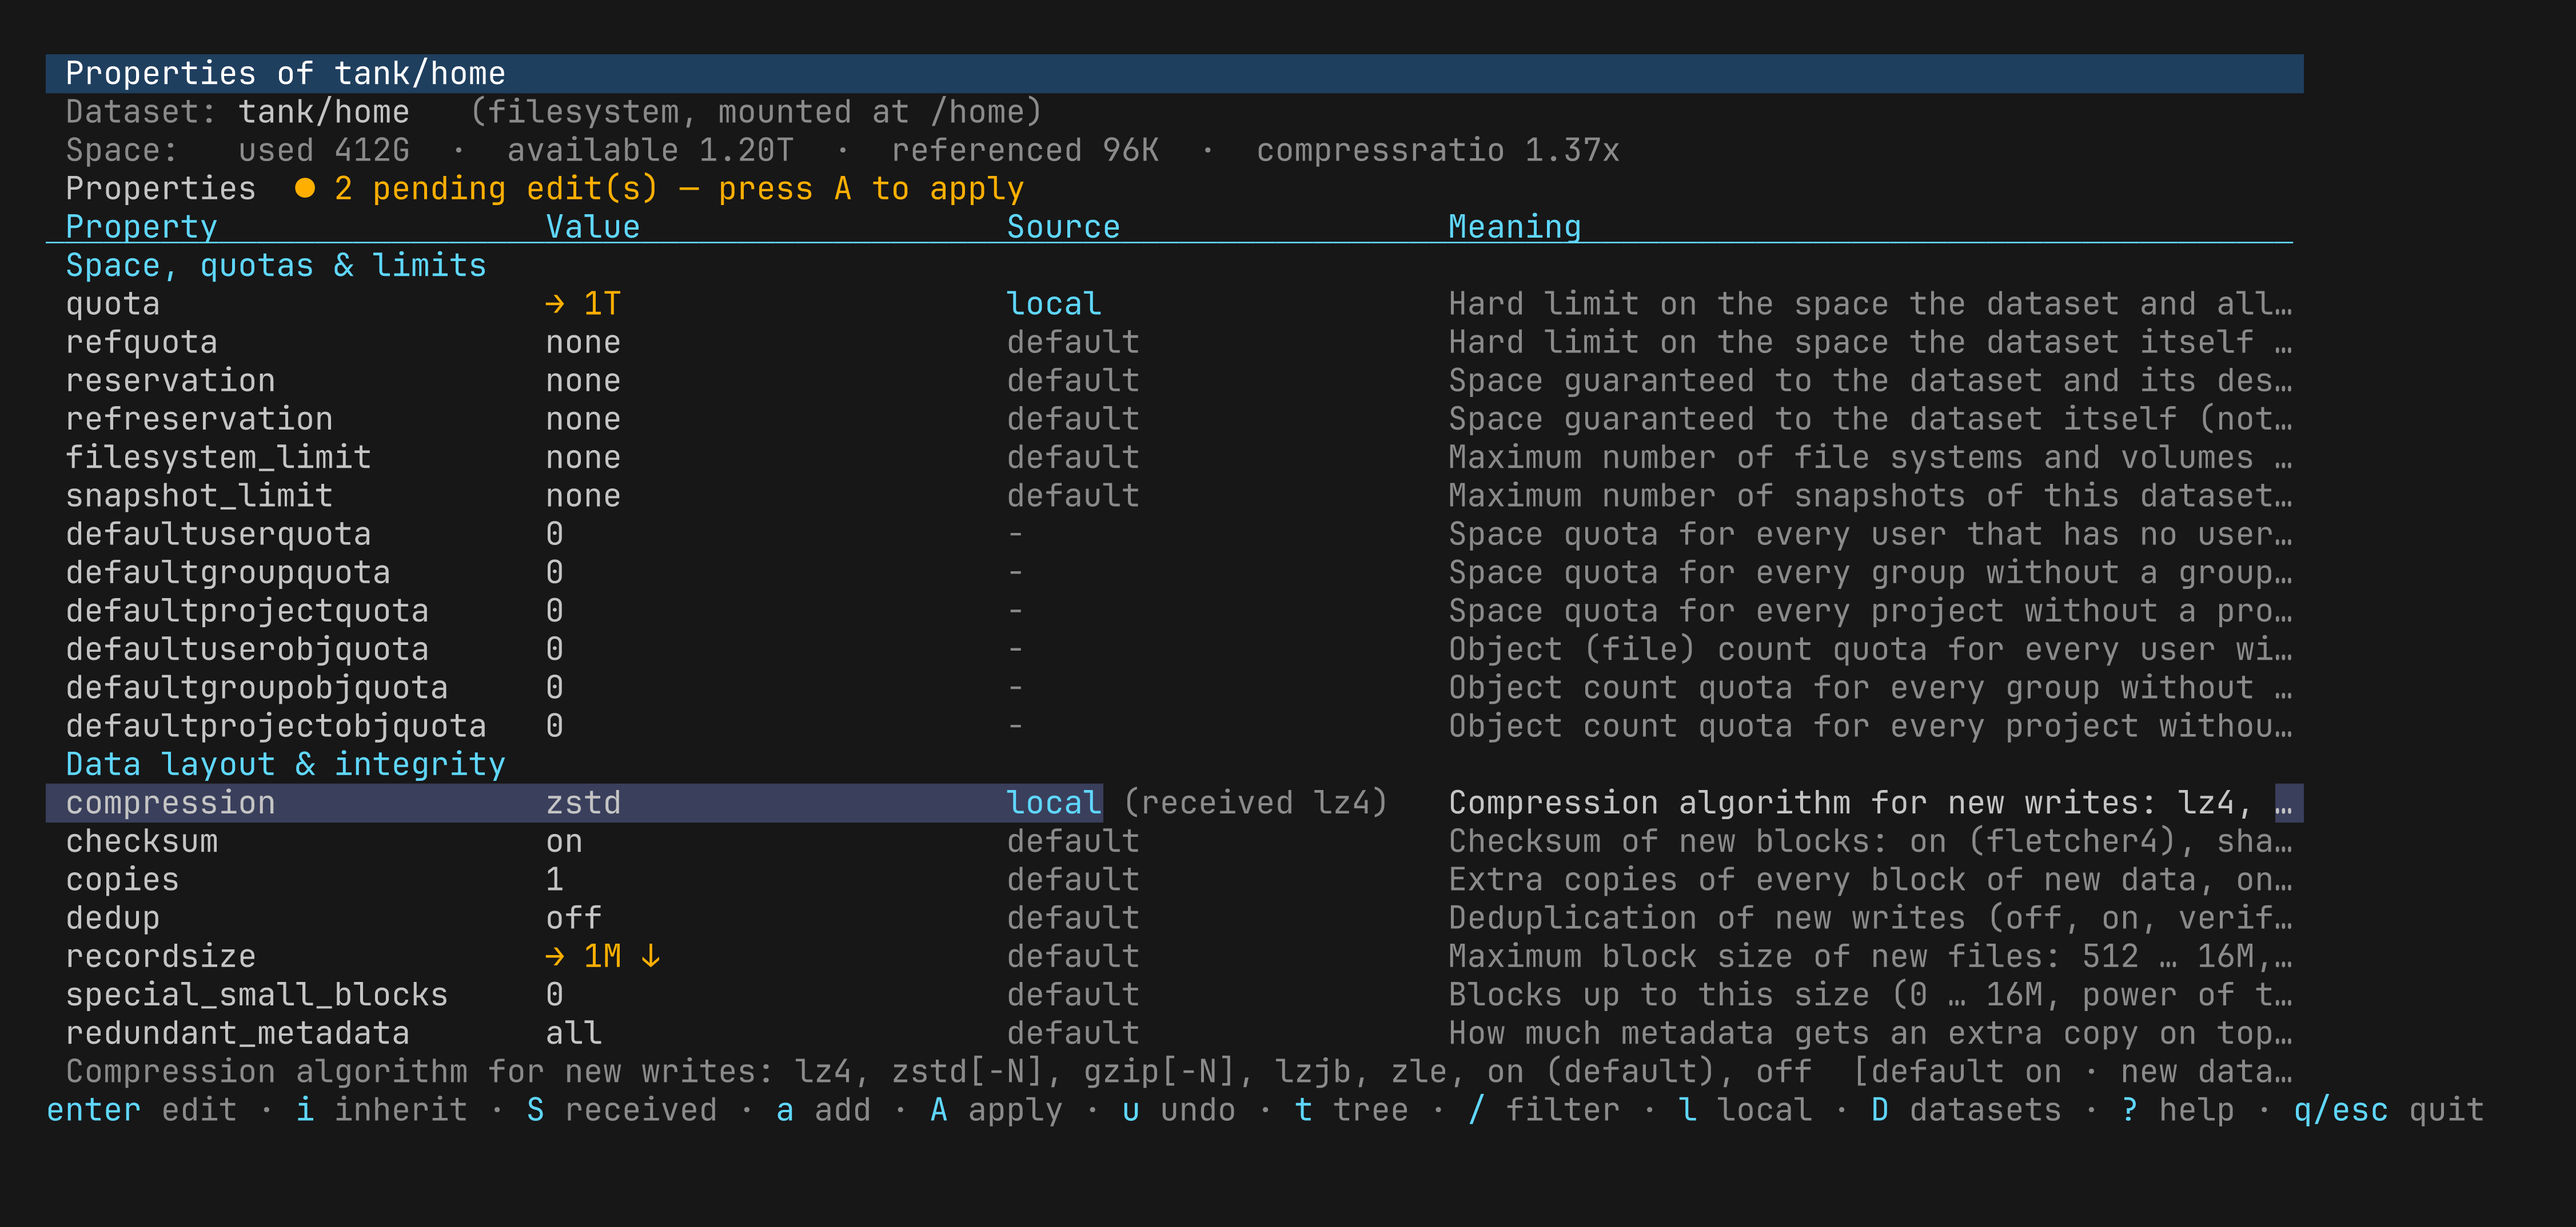
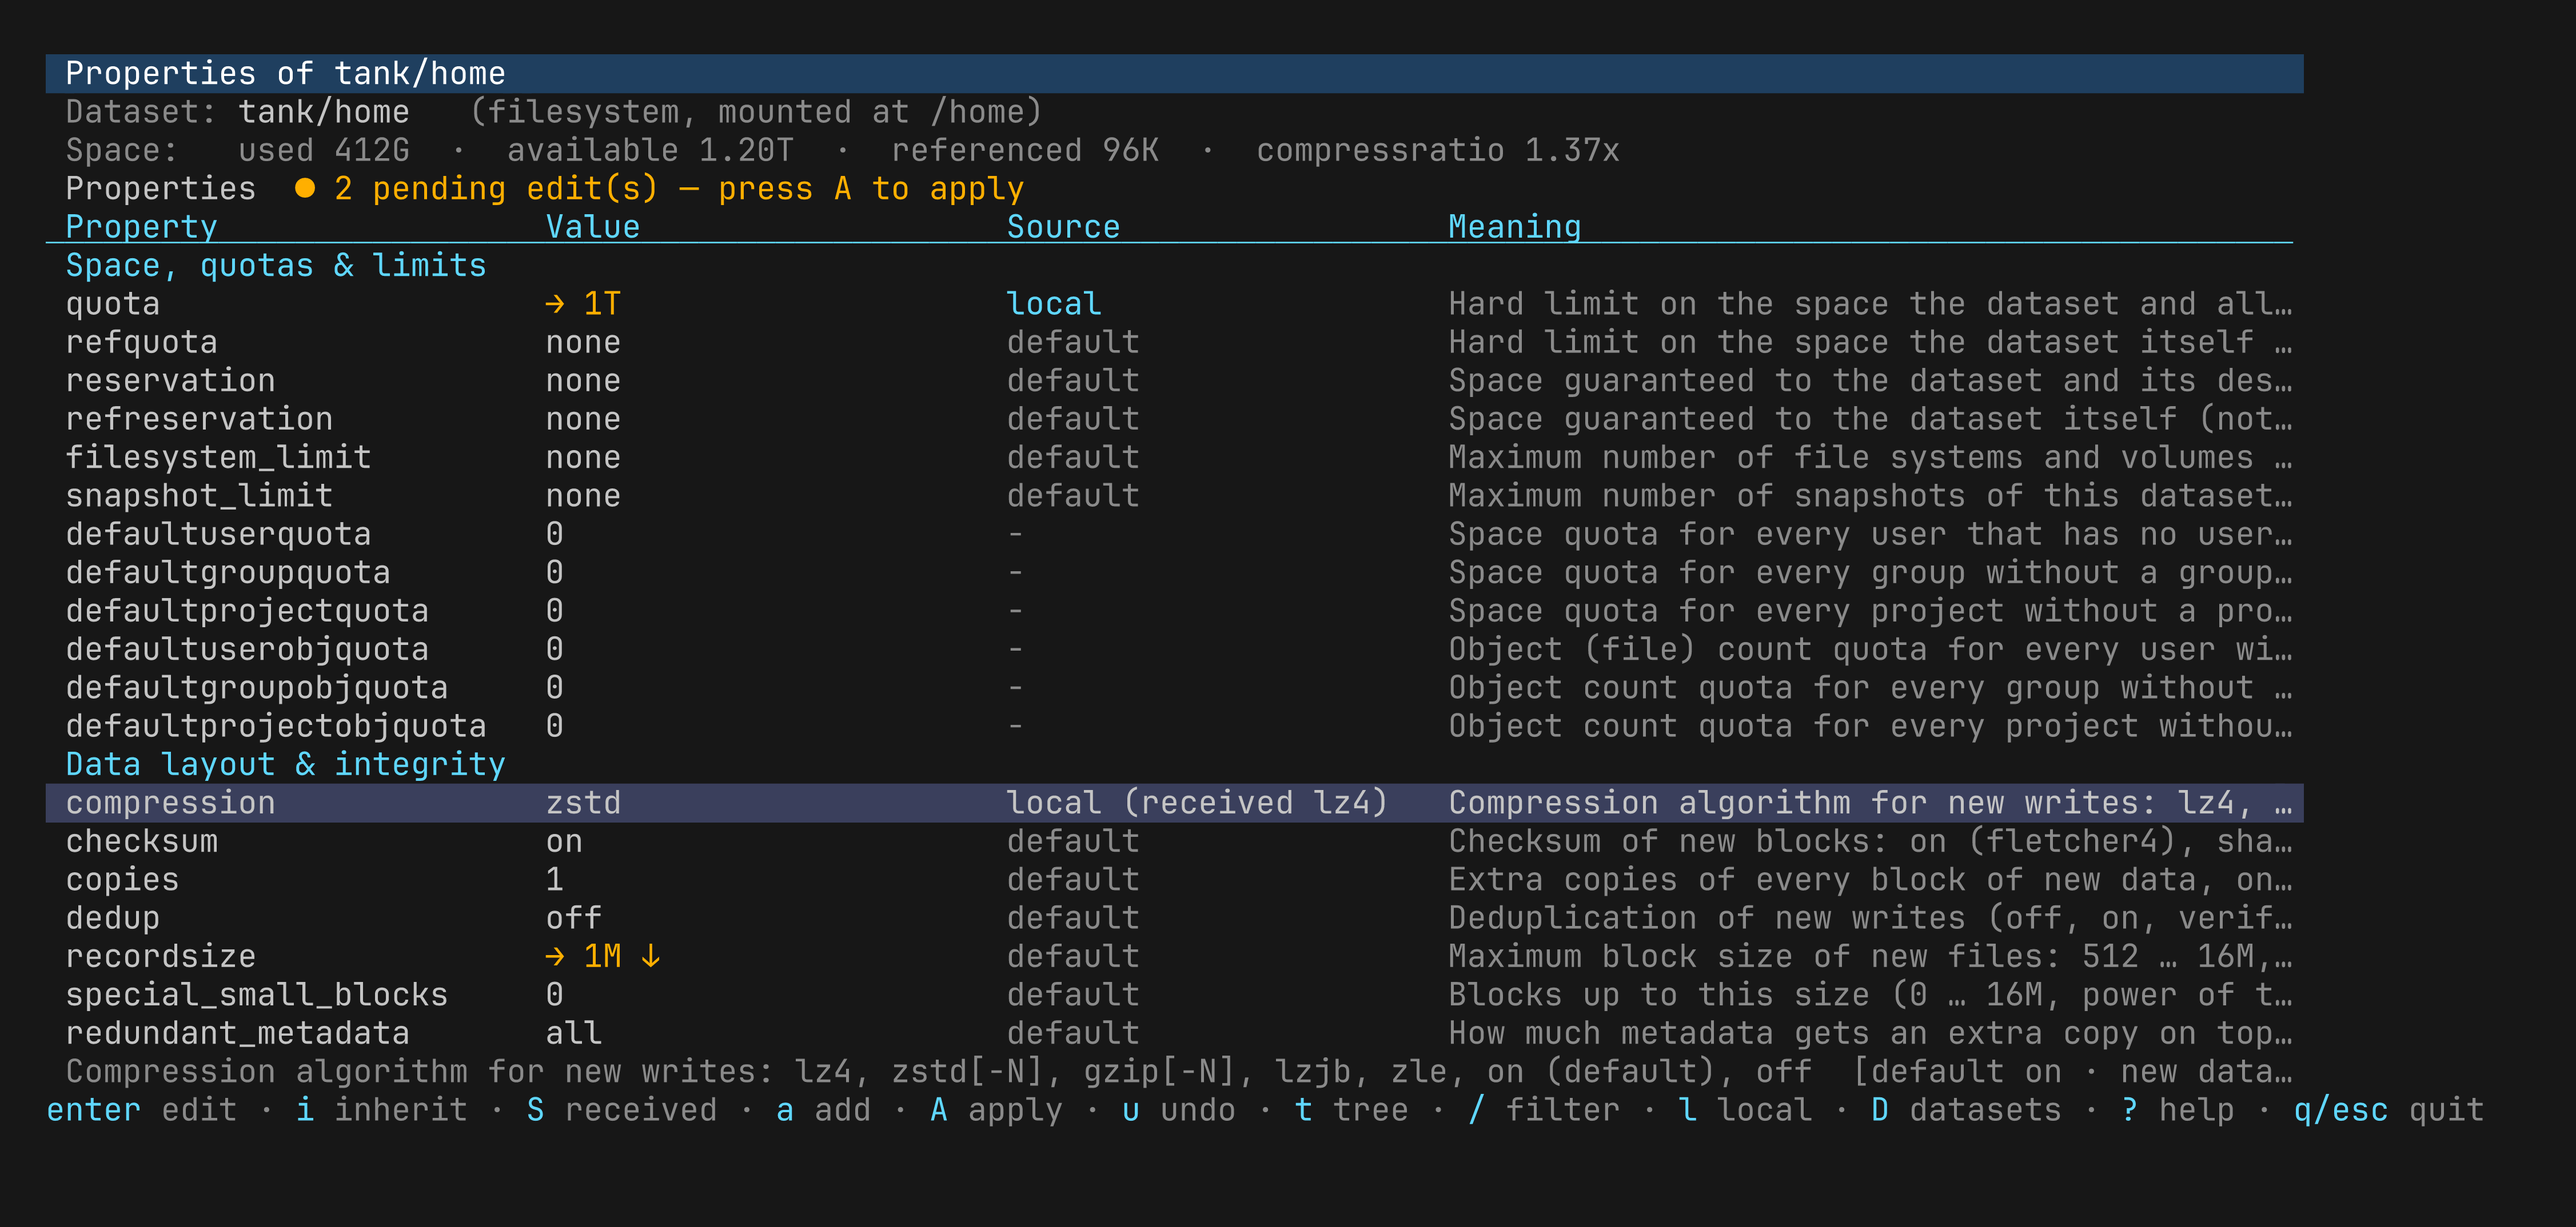
Main screen: the selected row is highlighted end to end.

Changed region(s): [[0.4039, 0.6238, 0.901, 0.6862]]

diff --git a/ui/app.go b/ui/app.go
@@ -1299,44 +1299,49 @@ func (m *Model) mainView() string {
 			b.WriteString(styleFocus.Render(" "+r.header) + "\n")
 			continue
 		}
-		val := r.val.Value
+		// plain and styled forms of the value and the source
+		pval, psrc := r.val.Value, r.val.SourceLabel()
+		val, src := pval, sourceStyle(r.val)
 		if !r.have {
-			val = styleMuted.Render("not set")
-		}
-		src := sourceStyle(r.val)
-		if !r.have {
-			src = styleMuted.Render("-")
+			pval, psrc = "not set", "-"
+			val, src = styleMuted.Render(pval), styleMuted.Render(psrc)
 		}
 		if r.val.Received != "" && r.val.Source != "received" {
+			psrc += " (received " + r.val.Received + ")"
 			src += styleMuted.Render(" (received " + r.val.Received + ")")
 		}
 		if e, ok := m.edits.Get(r.name); ok {
 			switch e.Action {
 			case props.ActSet:
-				val = styleWarn.Render("→ " + e.Value)
+				pval = "→ " + e.Value
 			case props.ActInherit:
-				val = styleWarn.Render("→ inherit")
+				pval = "→ inherit"
 			case props.ActRevert:
-				val = styleWarn.Render("→ " + r.val.Received + " (received)")
+				pval = "→ " + r.val.Received + " (received)"
 			}
 			if e.Descend {
-				val += styleWarn.Render(" ↓")
+				pval += " ↓"
 			}
-		} else if r.have {
-			val = fit(val, wVal)
+			val = styleWarn.Render(fit(pval, wVal))
+		} else {
+			val = fitAnsi(val, wVal)
 		}
 		name := r.name
 		if r.prop.Kind != props.Settable {
 			name += " ⊘"
 		}
-		line := " " + fit(name, wName) + " " + fitAnsi(val, wVal) + " " + fitAnsi(src, wSrc)
+		note := ""
 		if wNote > 0 {
-			line += " " + styleMuted.Render(fit(r.prop.Note, wNote))
+			note = " " + fit(r.prop.Note, wNote)
 		}
-		if i == m.cursor {
-			line = styleSelected.Width(m.width).Render(" " + fit(name, wName) + " " + fitAnsi(val, wVal) + " " + fitAnsi(src, wSrc) + map[bool]string{true: " " + fit(r.prop.Note, wNote), false: ""}[wNote > 0])
-		} else if r.prop.Kind != props.Settable {
-			line = " " + styleMuted.Render(fit(name, wName)) + " " + fitAnsi(val, wVal) + " " + fitAnsi(src, wSrc) + map[bool]string{true: " " + styleMuted.Render(fit(r.prop.Note, wNote)), false: ""}[wNote > 0]
+		var line string
+		switch {
+		case i == m.cursor:
+			line = styleSelected.Width(m.width).Render(" " + fit(name, wName) + " " + fit(pval, wVal) + " " + fit(psrc, wSrc) + note)
+		case r.prop.Kind != props.Settable:
+			line = " " + styleMuted.Render(fit(name, wName)) + " " + val + " " + fitAnsi(src, wSrc) + styleMuted.Render(note)
+		default:
+			line = " " + fit(name, wName) + " " + val + " " + fitAnsi(src, wSrc) + styleMuted.Render(note)
 		}
 		b.WriteString(line + "\n")
 	}
